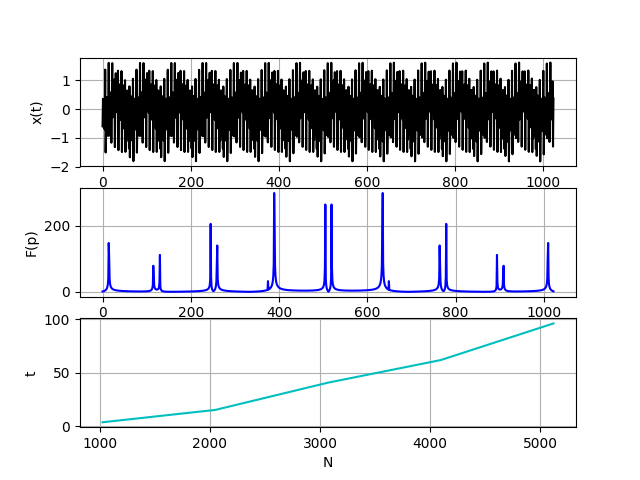
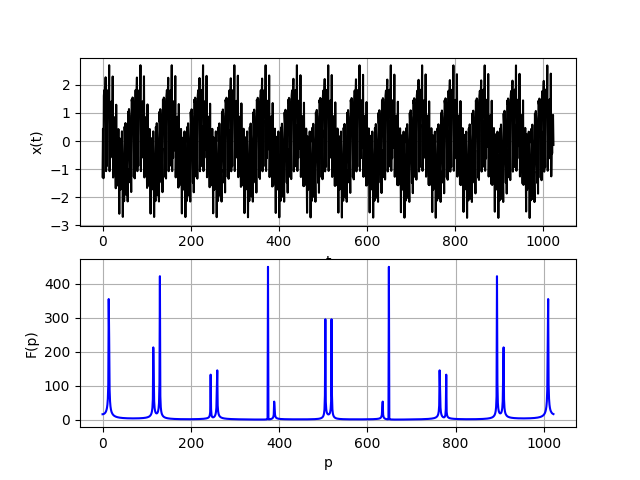
added fast_fourier

Changed region(s): [[0.0312, 0.125, 0.9062, 0.9688], [0.0312, 0.6875, 0.125, 0.8125], [0.0938, 0.4062, 0.125, 0.4375]]

diff --git a/Lab04/main.py b/Lab04/main.py
@@ -4,12 +4,6 @@ import random
 import time
 
 
-TICKS = 1024
-HARMONICS = 8
-FREQUENCY = 1200
-STEP = FREQUENCY / HARMONICS
-
-
 class Harmonic:
     def __init__(self, frequency, ticks):
         self.amplitude = random.uniform(0.0, 1.0)
@@ -100,39 +94,65 @@ def generate_table(ticks):
     return table_set
 
 
-signal_x = generate_signal(HARMONICS, TICKS, STEP)
+def calc_FFT(signal):
+    N = len(signal);
+    if (N == 2):
+        return list((signal[0] + signal[1], signal[0] - signal[1]))
 
-mean_x = calc_mean(signal_x, TICKS)
-calc_dispertion(signal_x, mean_x, TICKS)
-startTime = time.time()
-fourier_x, ps = calc_DFT(signal_x, TICKS)
-print("Elapsed time = {}".format(time.time()-startTime))
-compl_t, compl_n = calc_complexity(1)
+    even, odd = calc_FFT(signal[0::2]), calc_FFT(signal[1::2])
+    w = lambda k: complex(1.0, 0.0) if (k % N == 0) \
+        else complex(np.cos(2.0*np.pi*k/N), np.sin(2.0*np.pi*k/N))
+    res = [0 for _ in range(N)]
+    for i in range(int(N/2)):
+        res[i] = even[i] + w(i) * odd[i]
+        res[i+int(N/2)] = even[i] - w(i) * odd[i]
 
-table = generate_table(TICKS)
-startTime = time.time()
-calc_DFT(signal_x, TICKS, table)
-print("Elapsed time = {}".format(time.time()-startTime))
-
-
-plt.subplot(2, 1, 1)
-plt.plot(signal_x.ts, signal_x.xss, 'k')
-plt.xlabel('t')
-plt.ylabel('x(t)')
-plt.grid(True)
-
-plt.subplot(2, 1, 2)
-plt.plot(ps, fourier_x, 'b')
-plt.xlabel('p')
-plt.ylabel('F(p)')
-plt.grid(True)
-
-# plt.subplot(3, 1, 3)
-# plt.plot(compl_n, compl_t, 'c')
-# plt.xlabel('N')
-# plt.ylabel('t')
-# plt.grid(True)
+    return res
 
 
-plt.savefig('fig.png')
-plt.show()
+if __name__ == "__main__":
+    TICKS = 1024
+    HARMONICS = 8
+    FREQUENCY = 1200
+    STEP = FREQUENCY / HARMONICS
+
+
+    signal_x = generate_signal(HARMONICS, TICKS, STEP)
+
+    mean_x = calc_mean(signal_x, TICKS)
+    calc_dispertion(signal_x, mean_x, TICKS)
+    # fourier_x, ps = calc_DFT(signal_x, TICKS)
+    # compl_t, compl_n = calc_complexity(1)
+
+    table = generate_table(TICKS)
+    fourier_x, ps = calc_DFT(signal_x, TICKS, table)
+    fast_fourier_x = [abs(value) for value in calc_FFT(signal_x.xss)]
+
+
+    plt.subplot(3, 1, 1)
+    plt.plot(signal_x.ts, signal_x.xss, 'k')
+    plt.xlabel('t')
+    plt.ylabel('x(t)')
+    plt.grid(True)
+
+    plt.subplot(3, 1, 2)
+    plt.plot(ps, fourier_x, 'b')
+    plt.xlabel('p')
+    plt.ylabel('F(p)')
+    plt.grid(True)
+
+    plt.subplot(3, 1, 3)
+    plt.plot(signal_x.ts, fast_fourier_x, 'c')
+    plt.xlabel('p')
+    plt.ylabel('F(p)')
+    plt.grid(True)
+
+    # plt.subplot(3, 1, 3)
+    # plt.plot(compl_n, compl_t, 'c')
+    # plt.xlabel('N')
+    # plt.ylabel('t')
+    # plt.grid(True)
+
+
+    plt.savefig('fig.png')
+    plt.show()
